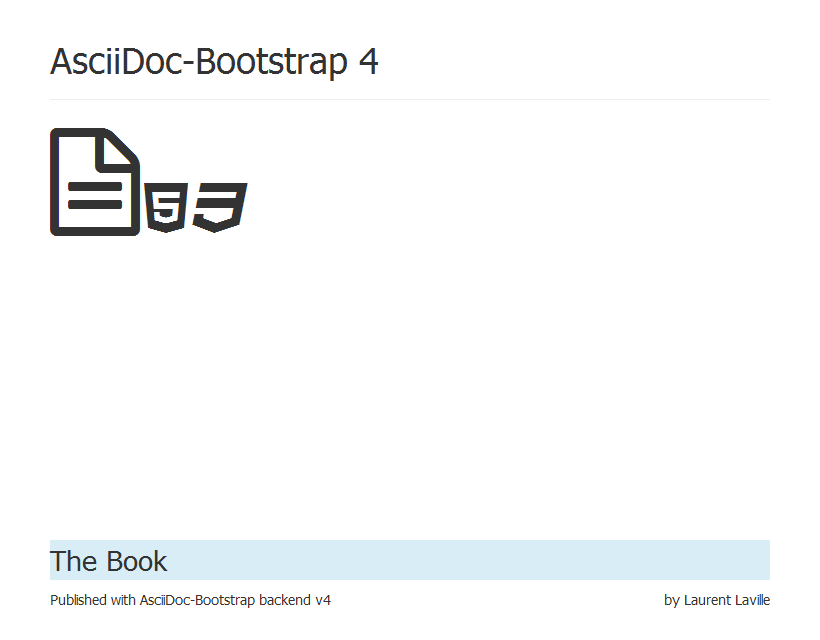
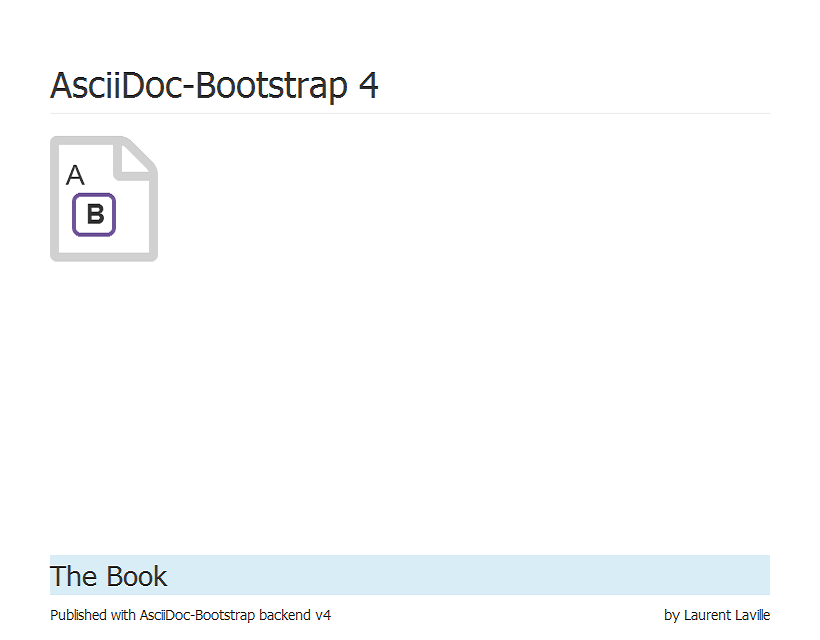
prepare stable release 4.4.0

Changed region(s): [[0.061, 0.8438, 0.9451, 0.9688], [0.061, 0.1875, 0.3049, 0.4062], [0.061, 0.0625, 0.4573, 0.1562]]

diff --git a/docs/footer.html b/docs/footer.html
@@ -1,24 +1,38 @@
 <div class="row">
-    <div class="col-md-3">
-        <h3>Links</h3>
-        <ul>
-            <li><a href="http://asciidoc.org">AsciiDoc</a></li>
-            <li><a href="http://getbootstrap.com">Bootstrap</a></li>
-            <li><a href="{brandref}/issues">Report an issue</a></li>
-            <li><a href="http://laurent-laville.org/asciidoc/bootstrap/expo/">Expo</a></li>
-            <li><a href="http://laurent-laville.org/asciidoc/bootstrap/blog/">Blog</a></li>
+    <div class="col-md-5">
+        <h3>Social</h3>
+        <ul class="fa-ul">
+            <li>
+                <span class="fa-stack fa-lg">
+                    <i class="fa fa-github fa-stack-2x"></i>
+                </span>
+                <a href="{gitproject}/issues">Report an issue</a>
+            </li>
+            <li>
+                <span class="fa-stack fa-lg">
+                    <i class="fa fa-bullhorn fa-stack-2x"></i>
+                </span>
+                <a href="http://www.laurent-laville.org/asciidoc/bootstrap/blog/">Blog</a>
             </li>
         </ul>
     </div>
-    <div class="col-md-9">
+    <div class="col-md-7">
         <h3>About Us</h3>
-        <p>
+        <ul class="fa-ul">
+            <li>
+                <span class="fa-stack fa-lg">
+                    <i class="fa fa-star-o fa-stack-2x"></i>
+                </span>
 Thanks to Dan Allen who wrote the <a href="https://github.com/mojavelinux/asciidoc-bootstrap-docs-backend">first version</a>
 on December 2012, and do my dream a reality.
-        </p>
-        <p>
-Laurent Laville take the lead since release 1.1.0 on December 17th 2012.
-        </p>
+            </li>
+            <li>
+                <span class="fa-stack fa-lg">
+                    <i class="fa fa-star fa-stack-2x"></i>
+                </span>
+<a href="https://github.com/llaville">Laurent Laville</a> is current lead developer since release 1.1.0 on December 17th 2012.
+            </li>
+        </ul>
     </div>
 </div>
 <div class="row">&nbsp;</div>

diff --git a/docs/index-jumboinfo.html b/docs/index-jumboinfo.html
@@ -1,0 +1,12 @@
+        <div class="col-md-8">
+            <h1>Asciidoc-Bootstrap</h1>
+            <p class="lead">An AsciiDoc backend that renders the AsciiDoc source as HTML5 in the style of Bootstrap.</p>
+        </div>
+        <div class="col-md-4">
+            <span class="fa-stack hidden-xs hidden-sm">
+                <span class="fa fa-stack-1x iconsfont-2x" style="bottom: -0.9em; left: 0.4em; font-family:helvetica">A</span>
+                <span class="fa fa-stack-1x iconsfont-2x" style="bottom: -2.3em; left: 1.1em; font-family:helvetica; font-weight:bold">B</span>
+                <i class="fa fa-square-o fa-stack-1x iconsfont-4x" style="bottom: -1.2em; left: 0.4em; color:#6F5499;"></i>
+                <i class="fa fa-file-o iconsfont-9x" style="color:#D1D1D1;"></i>
+            </span>
+        </div>

diff --git a/docs/versions.html b/docs/versions.html
@@ -1,4 +1,6 @@
+                        <li><a tabindex="-1" href="CHANGELOG.html">Changelog</a></li>
                         <li><a tabindex="-1" href="../../current/en/index.html">current</a></li>
+                        <li><a tabindex="-1" href="../../4.4/en/index.html">4.4</a></li>
                         <li><a tabindex="-1" href="../../4.3/en/index.html">4.3</a></li>
                         <li><a tabindex="-1" href="../../4.2/en/index.html">4.2</a></li>
                         <li><a tabindex="-1" href="../../4.1/en/index.html">4.1</a></li>
